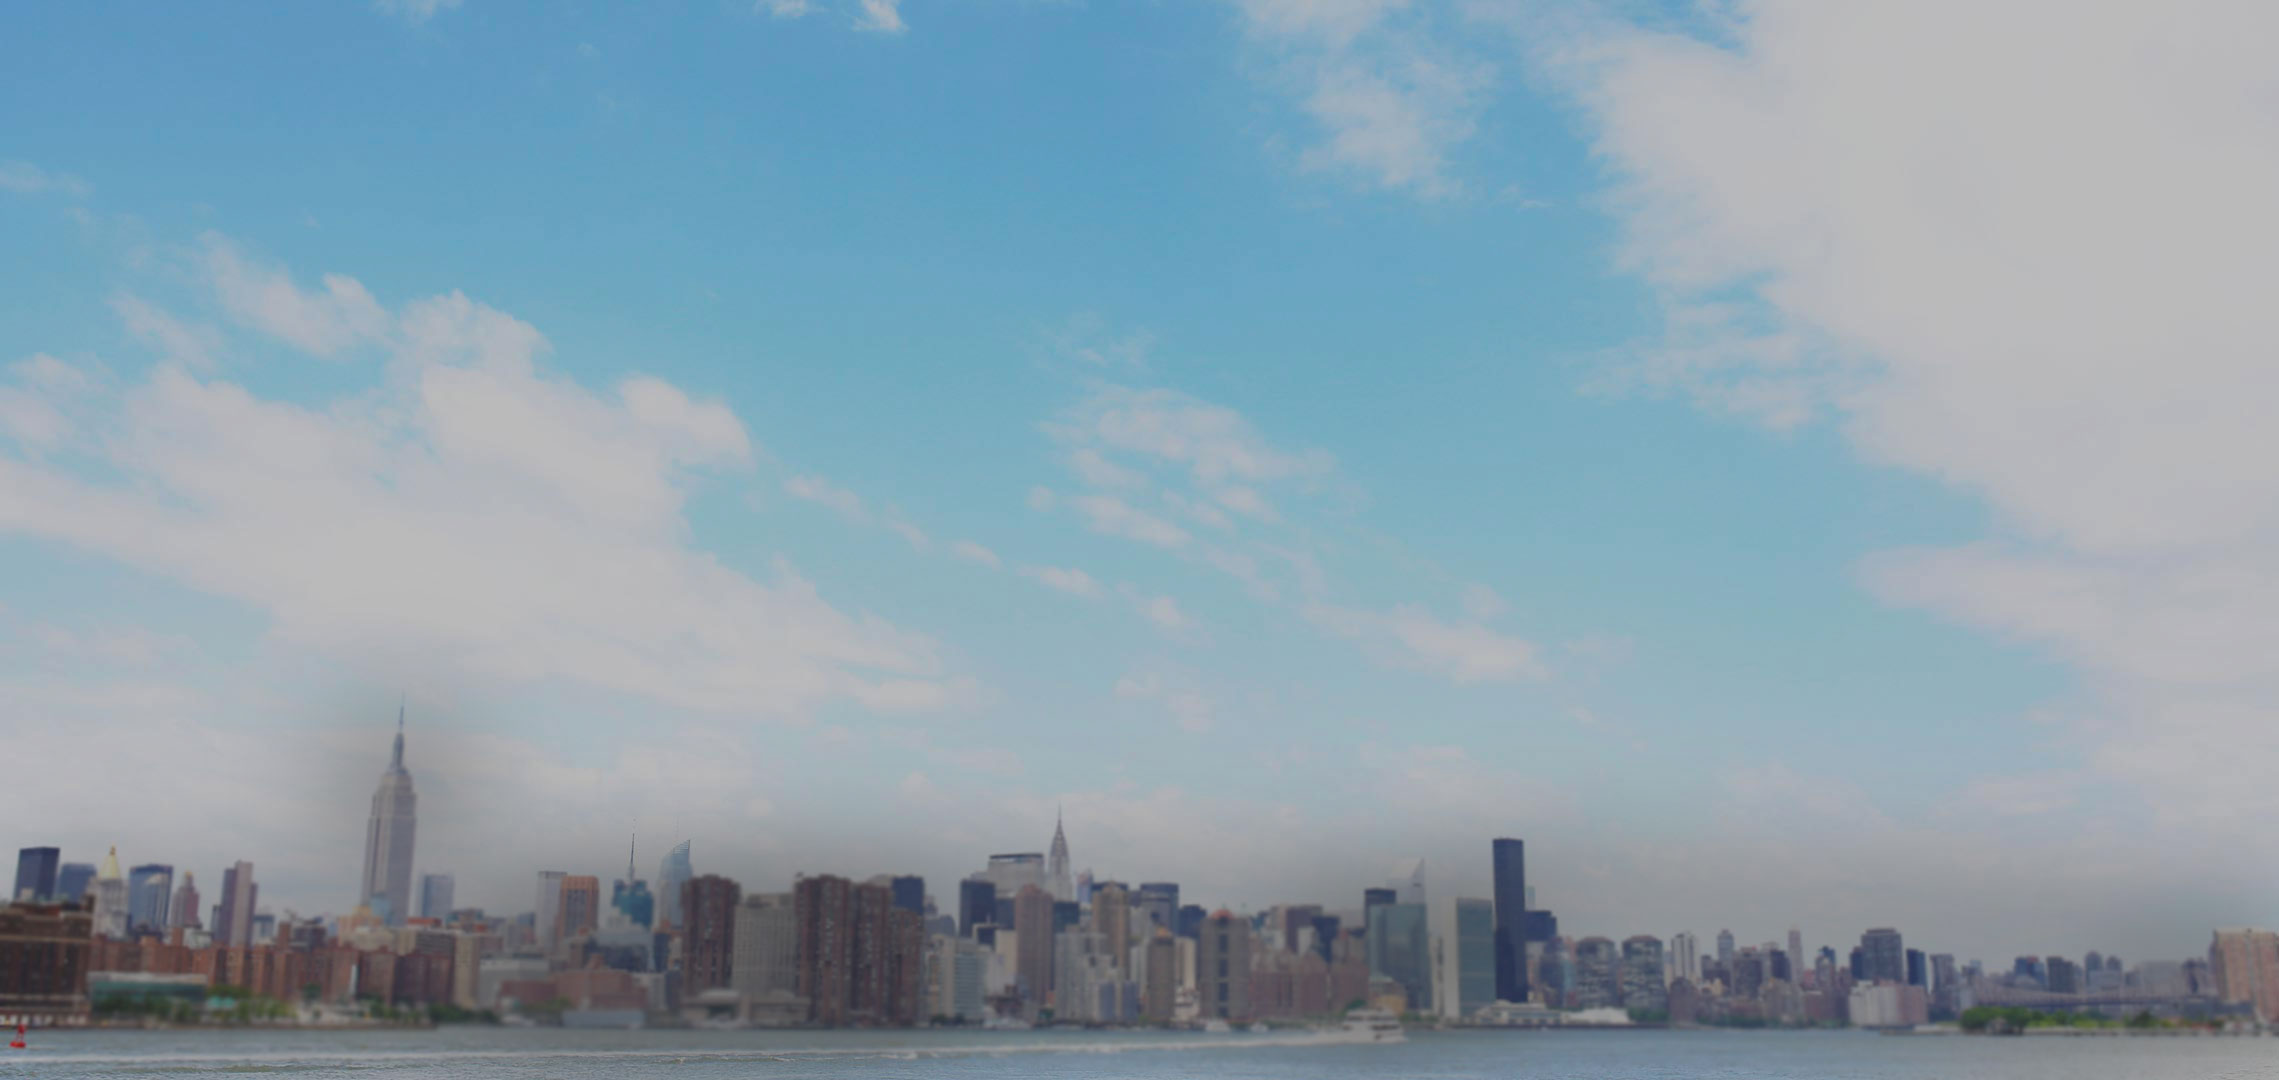
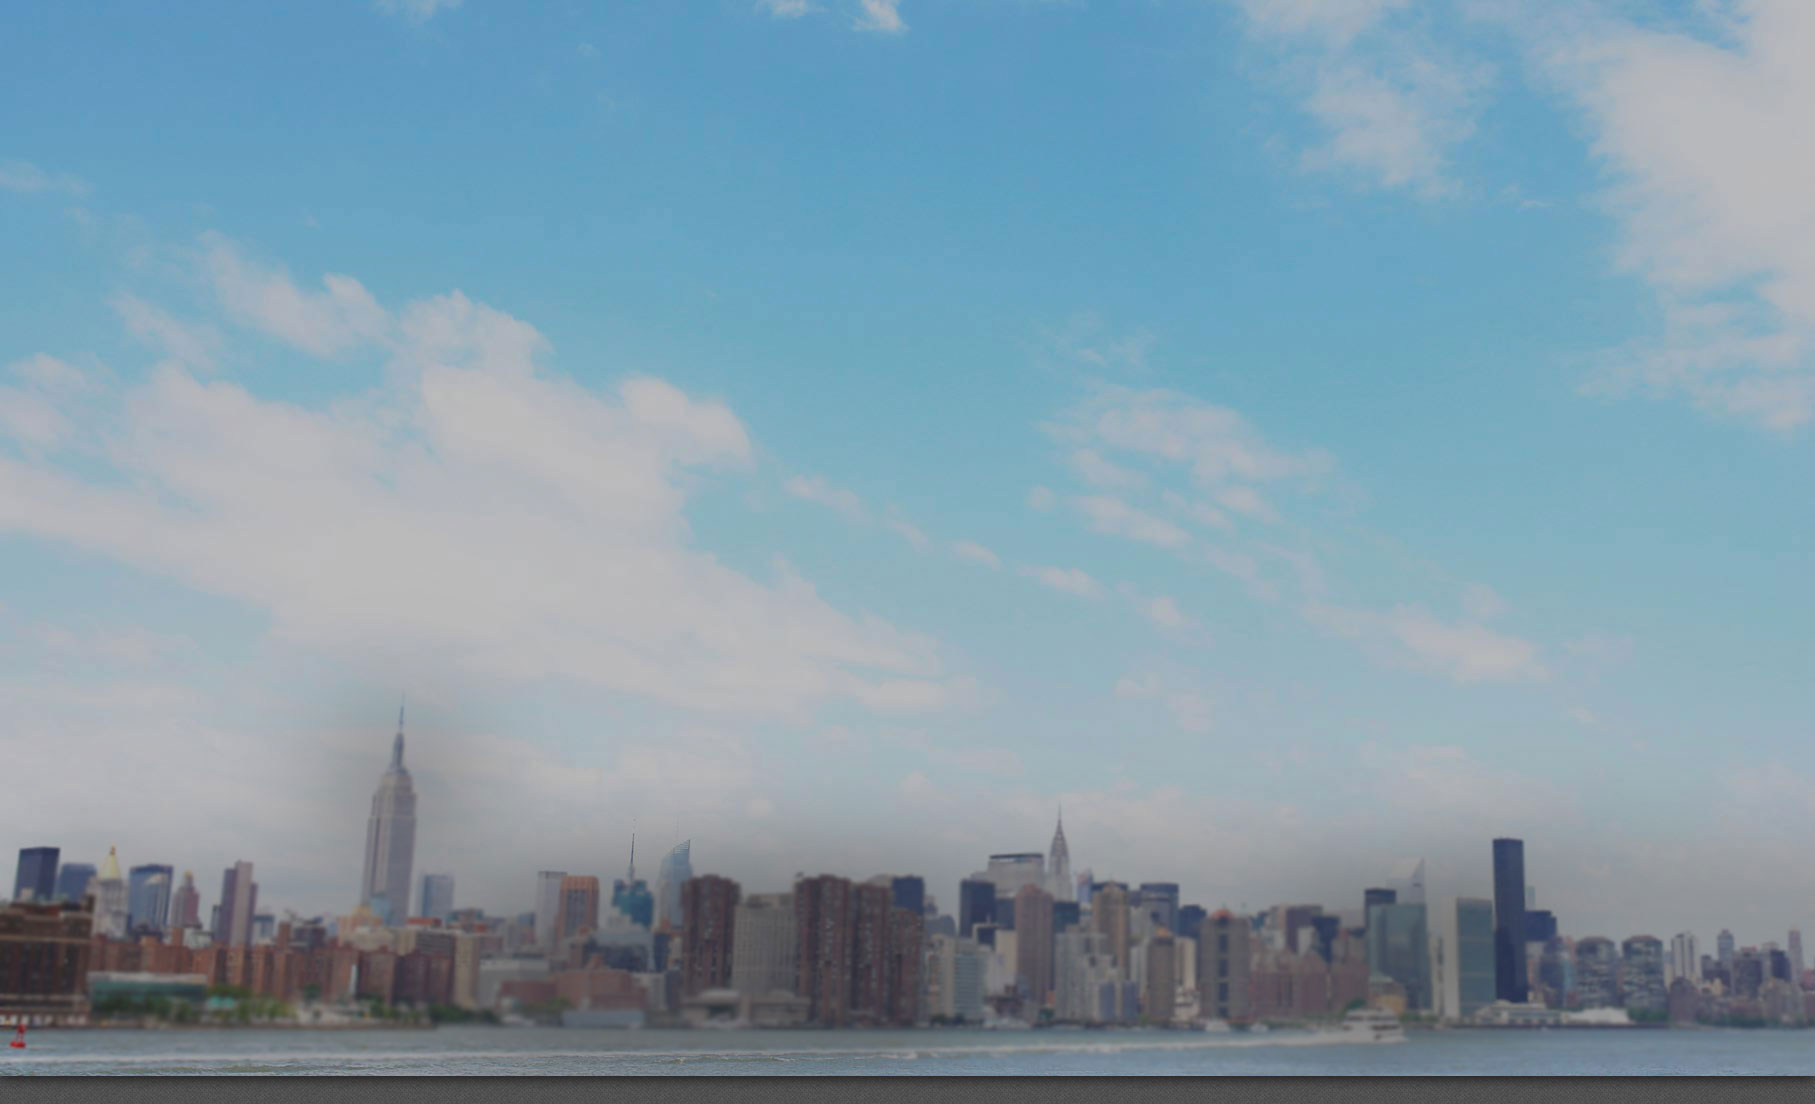
Added tweed texture under skyline img

diff --git a/app/assets/stylesheets/application.css b/app/assets/stylesheets/application.css
@@ -26,12 +26,21 @@
  
 
 body {
-	background-image: url('/img/skyline.jpg');
-	background-position: center;
-	background-repeat: no-repeat;
+	background:url(/img/tweed.png);
 	color: #FFFFFF;
 	text-align: center;
 	font: 400 16px/1.6 'Muli', Verdana, Helvetica, sans-serif;
+}
+
+.wrap_it_all {
+	background-image: url('/img/skyline.jpg');
+	background-position: top;
+	background-repeat: no-repeat;
+	overflow: auto;
+	
+	-webkit-box-shadow: 0px 3px 5px 0px rgba(50, 50, 50, 0.75);
+	-moz-box-shadow:    0px 3px 5px 0px rgba(50, 50, 50, 0.75);
+	box-shadow:         0px 3px 5px 0px rgba(50, 50, 50, 0.75);
 }
 
 .hideme {
